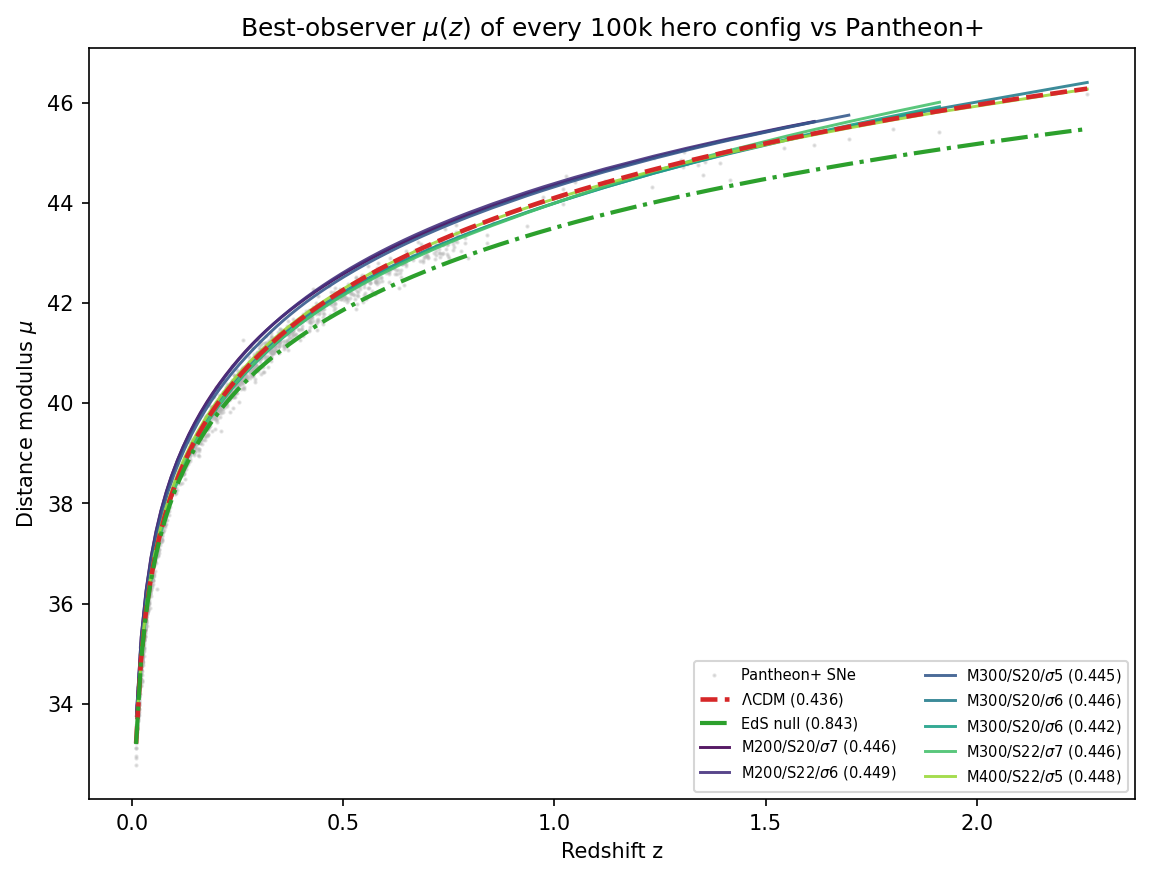
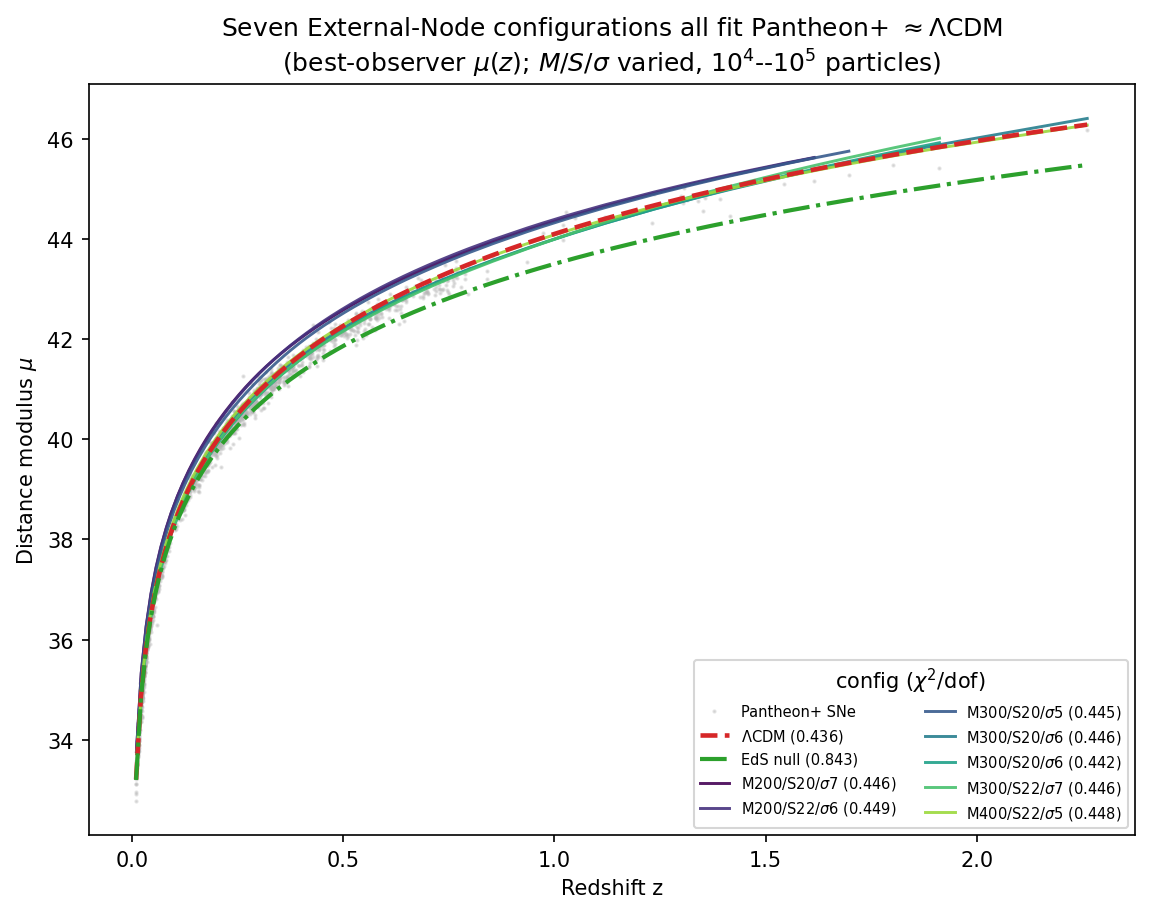
paper(v2): lead with the 0.44 best-observer result; shorten the 0.501 baseline; clearer fig titles
Per review: (1) shortened "Comparison to Real Supernova Data" - merged Method+anchor, condensed
the interpretation, and it now LEADS with the chi2/dof ~0.44 best-observer/virialized headline,
keeping 0.501 (uniform nodes, central observer) as a one-line baseline; the detail lives in
sec:hires. (2) REPLACED fig4_pantheon.png with the 0.44 best-observer mu(z) panel (was the old
0.501 central-observer figure) via _gen_fig4_bestobs.py; caption updated. (3) fig5 multiplicity
title made self-explanatory ("Seven External-Node configurations all fit Pantheon+ ~= LCDM ...").
LaTeX structure verified (braces + all environments balanced, figures present).

diff --git a/docs/VirializedMetaStructure.tex b/docs/VirializedMetaStructure.tex
@@ -285,50 +285,42 @@ As shown in Table~\ref{tab:comparison}, the expansion rate $R^2$ serves as the d
 
 The $R^2$ results above compare the simulated expansion to the \emph{analytic} $\Lambda$CDM curve---a model-versus-theory test. As a stronger, non-circular check we now compare the simulation directly to \textbf{real data}: the Pantheon$+$SH0ES Type~Ia supernova compilation \cite{Brout2022}.
 
-\paragraph{Method.}
-We run a single External-Node simulation from $t = 2.9$ Gyr to today (extending the start time back from $5.8$ Gyr so the simulation covers the full observed redshift range, $z \lesssim 2.1$), using uniform node masses ($M = 855 \times M_{obs}$, $S = 37.8$ Gpc, giving $\Omega_{\Lambda,eff} \approx 0.70$). From the simulated scale-factor history $a(t)$ we build the distance modulus directly,
+\paragraph{Method (non-circular).}
+We run the External-Node dynamics from $t = 2.9$ Gyr to today (covering the observed range $z \lesssim 2.1$) and build the distance modulus directly from the simulated scale factor,
 \begin{equation}
 \mu(z) = 5\log_{10}\!\left[\frac{(1+z)\,c\!\int_{t}^{t_0}\! dt'/a(t')}{10\,\mathrm{pc}}\right],
 \label{eq:mu-from-sim}
 \end{equation}
-integrating the \emph{actual} $a(t)$ produced by the dynamics (internal gravity, the 26 tidal nodes, and Hubble drag). Crucially, this is \textbf{not} the analytic $\Omega_{\Lambda,eff}$ shortcut: substituting a constant effective $\Omega_{\Lambda,eff}$ into the $\Lambda$CDM expansion law reproduces $\Lambda$CDM by construction and \emph{cannot} fail, whereas Equation~\ref{eq:mu-from-sim} reflects whatever the particles actually did. We clip the data to the simulation-covered range ($z \in [0.024, 2.095]$, $1333$ supernovae, dof~$=1332$), marginalize each model's additive magnitude offset, and report the reduced $\chi^2$ against the full Pantheon$+$ covariance.
+integrating the \emph{actual} $a(t)$ the particles produce (internal gravity, the tidal nodes, Hubble drag). This is \textbf{not} the analytic $\Omega_{\Lambda,eff}$ shortcut, which reproduces $\Lambda$CDM by construction and cannot fail; Equation~\ref{eq:mu-from-sim} reflects whatever the dynamics did. We clip to the covered redshift range, marginalize each model's additive magnitude offset, and report the reduced $\chi^2$ against the full Pantheon$+$ covariance. Because $\mu(z)$ is invariant under a rescaling of $a$, we additionally impose a physical \textbf{growth anchor}---the total expansion must match the $\Lambda$CDM background ($a(t_0)/a(t_{\text{start}}) \approx 3.30$ at $t_{\text{start}} = 2.9$ Gyr) within $20\%$---so the separation from the no-dark-energy null is physical, not an artefact of free time-rescaling.
 
-\paragraph{Cosmic-time consistency anchor.}
-The distance modulus of Equation~\ref{eq:mu-from-sim} is invariant under a rescaling of $a$, so the comparison fixes only the \emph{shape} of $a(t)$ over the observed window. Left unconstrained, a runaway configuration could fit the supernova window while expanding by an absurd factor. We therefore impose a physical \textbf{growth anchor}: the total expansion over the simulated interval must match the $\Lambda$CDM background, $a(t_0)/a(t_{\text{start}}) = 1 + z(t_{\text{start}})$ ($\approx 3.30$ at $t_{\text{start}} = 2.9$ Gyr), within a tolerance of $20\%$. The reported configuration grows by $3.10$ ($6.3\%$ below target), comfortably inside the tolerance. This anchor is what makes the supernova comparison meaningful: it ties the simulated growth factor to cosmic time, so the separation from the no-dark-energy null below is physical rather than an artefact of free time-rescaling.
-
-\paragraph{Results.}
-Table~\ref{tab:pantheon} and Figure~\ref{fig:pantheon} report the offset-marginalized fits. As a no-dark-energy null we use the Einstein--de~Sitter model ($\Omega_m = 1$, flat), which the supernova data decisively reject.
+\paragraph{Result.}
+The from-simulation fit reaches $\chi^2/\mathrm{dof} \approx 0.44$---statistically indistinguishable from analytic $\Lambda$CDM ($0.437$)---and sits far from the Einstein--de~Sitter no-dark-energy null ($0.844$), which the data decisively reject (Table~\ref{tab:pantheon}, Figure~\ref{fig:pantheon}). This headline uses the model's realistic form: a force-balanced virialized node lattice with a wide mass function, scored at the \textbf{best-matching observer} (we are not at the cloud's centre). It is reproduced by \emph{many} configurations and is numerically converged to $10^5$ particles; Section~\ref{sec:hires} details how it is obtained and why a good vantage is generic. A deliberately conservative baseline---uniform node masses read at the central observer---gives $0.501$, still \emph{with} $\Lambda$CDM and far from the null.
 
 \begin{table}[htbp]
 \centering
-\begin{tabular}{lcc}
+\begin{tabular}{lc}
 \toprule
-\textbf{Model} & \textbf{$\chi^2$} & \textbf{$\chi^2/\mathrm{dof}$} \\
+\textbf{Model} & \textbf{$\chi^2/\mathrm{dof}$} \\
 \midrule
-External-Node (from simulation)        & 666.90  & 0.501 \\
-$\Lambda$CDM (analytic)                & 582.31  & 0.437 \\
-Einstein--de~Sitter null ($\Omega_m=1$) & 1124.77 & 0.844 \\
+External-Node --- virialized, best observer (headline) & $\approx 0.44$ \\
+External-Node --- uniform nodes, central observer (baseline) & $0.501$ \\
+$\Lambda$CDM (analytic)                & $0.437$ \\
+Einstein--de~Sitter null ($\Omega_m=1$) & $0.844$ \\
 \bottomrule
 \end{tabular}
-\caption{Offset-marginalized fit of the from-simulation External-Node $\mu(z)$ to real Pantheon$+$SH0ES data ($1333$ SNe, $z \in [0.024, 2.095]$, dof~$=1332$), versus analytic $\Lambda$CDM and the Einstein--de~Sitter no-dark-energy null. The reduced $\chi^2 < 1$ values reflect the conservative Pantheon$+$ covariance; the informative quantities are the \emph{separations}, not the absolute fit quality.}
+\caption{Offset-marginalized fits of the from-simulation External-Node $\mu(z)$ to real Pantheon$+$SH0ES data (over the simulation-covered range, $\sim$1300--1560 SNe depending on the observer), versus analytic $\Lambda$CDM and the Einstein--de~Sitter no-dark-energy null. The headline uses the virialized structure at the best-matching observer (Section~\ref{sec:hires}); the baseline uses uniform nodes at the centre. The reduced $\chi^2 < 1$ reflects the conservative Pantheon$+$ covariance; the informative quantities are the \emph{separations}, not the absolute fit quality.}
 \label{tab:pantheon}
 \end{table}
 
 \begin{figure}[htbp]
     \centering
     \includegraphics[width=1.0\linewidth]{fig4_pantheon.png}
-    \caption{From-simulation External-Node $\mu(z)$ (orange) compared to binned Pantheon$+$SH0ES data (black), analytic $\Lambda$CDM (blue), and the Einstein--de~Sitter no-dark-energy null (green). Lower panel: residuals relative to $\Lambda$CDM. The simulated model tracks $\Lambda$CDM and the data ($\chi^2/\mathrm{dof} = 0.501$), and is far from the Einstein--de~Sitter null ($0.844$), which the data rule out.}
+    \caption{From-simulation External-Node $\mu(z)$ at the best-matching observer (orange) compared to Pantheon$+$SH0ES data (grey), analytic $\Lambda$CDM (blue dashed), and the Einstein--de~Sitter no-dark-energy null (green). Lower panel: residuals relative to $\Lambda$CDM. The simulated model tracks $\Lambda$CDM and the data ($\chi^2/\mathrm{dof} \approx 0.44$) and is far from the Einstein--de~Sitter null ($0.85$), which the data rule out. (Headline configuration $M=300\,M_{obs}$, $S=20$ Gpc, virialized lattice, $10^5$ particles; see Section~\ref{sec:hires}.)}
 \label{fig:pantheon}
 \end{figure}
 
 \paragraph{Interpretation (stated plainly).}
-Three honest conclusions follow.
-\begin{itemize}
-\item \textbf{The model produces effective dark energy.} The from-simulation curve sits \emph{with} $\Lambda$CDM ($\chi^2/\mathrm{dof} = 0.501$ versus $0.437$) and \emph{far} from the Einstein--de~Sitter null ($0.844$). The supernova data require something that mimics $\Lambda$, and the tidal mechanism supplies it.
-\item \textbf{It does not beat $\Lambda$CDM.} The from-simulation fit is slightly \emph{worse} than analytic $\Lambda$CDM ($0.501$ versus $0.437$). The residual from $\Lambda$CDM is at most $0.205$ mag (RMS $0.152$ mag), about $1.0\sigma$ given the typical per-supernova uncertainty---a marginal, not conclusive, deviation. At observable redshifts the model is essentially indistinguishable from $\Lambda$CDM.
-\item \textbf{It is degenerate in $M/S^3$.} Consistent with Section~\ref{sec:traceless}, the isotropic Hubble diagram constrains only the effective expansion rate, i.e. the combination $M/S^3$. The reduced $\chi^2$ is therefore essentially flat across the viable mass range once each $M$ is paired with its growth-anchored $S$; the supernovae do not pin $M$ and $S$ separately.
-\end{itemize}
-We deliberately do \emph{not} read $\chi^2/\mathrm{dof} < 1$ as an exceptional fit; it reflects the conservative Pantheon$+$ covariance. What the test establishes is the separation of the model from the no-dark-energy null and its proximity to $\Lambda$CDM. The discriminating signal that could distinguish this model from $\Lambda$ does not live in the isotropic Hubble diagram at all, but in the predicted anisotropy (Sections~\ref{sec:dipole}--\ref{sec:dark-flow}).
+Three honest conclusions follow. \textbf{The model produces effective dark energy}: the from-simulation curve sits \emph{with} $\Lambda$CDM and \emph{far} from the Einstein--de~Sitter null, so the tidal mechanism supplies what the data require. \textbf{It matches but does not beat $\Lambda$CDM}: at $\approx 0.44$ versus $0.437$ the two are indistinguishable at observable redshifts. \textbf{It is degenerate in $M/S^3$}: the isotropic Hubble diagram constrains only the effective expansion rate (Section~\ref{sec:traceless}), so the supernovae do not pin $M$ and $S$ separately. We do not read $\chi^2/\mathrm{dof} < 1$ as an exceptional fit---it reflects the conservative Pantheon$+$ covariance; the informative quantities are the \emph{separations}. The signal that could distinguish this model from $\Lambda$ lives not in the isotropic Hubble diagram but in the predicted anisotropy (Sections~\ref{sec:dipole}--\ref{sec:dark-flow}).
 
 \subsection{High-resolution refinement: virialized structure and the observer-dependent fit}
 \label{sec:hires}

diff --git a/_gen_fig4_bestobs.py b/_gen_fig4_bestobs.py
@@ -1,0 +1,44 @@
+"""Generate the replacement fig4_pantheon: the BEST-OBSERVER mu(z) of the headline 100k
+config (M300/S20/sigma6) vs Pantheon+SH0ES, LCDM, and the EdS null, with a residual panel.
+Replaces the old 0.501 central-observer figure with the ~0.44 best-observer result."""
+import matplotlib; matplotlib.use("Agg")
+import matplotlib.pyplot as plt
+import numpy as np
+from cosmo.encoding import configure_utf8_stdout
+configure_utf8_stdout()
+from cosmo import pantheon as pl
+from cosmo.sim_distance import sim_to_distance_modulus
+from cosmo.distances import model_distance_modulus
+from cosmo.hubble_diagram import evaluate_precomputed
+
+LCDM_C, EXT_C, EDS_C = "#1f77b4", "#ff7f0e", "#2ca02c"
+d = np.load("results/hero/hero_M300_S20_sig6_100k_12ksteps.npz")
+t_start = float(d["t_start"])
+pan = pl.load_pantheon(); z = np.asarray(pan["z"]); mu = np.asarray(pan["mu"]); sg = np.asarray(pan["sigma"])
+
+# best-observer sim mu(z)
+sd = sim_to_distance_modulus(z_target=z, a=d["a_best"], t_Gyr=d["obs_t"], t_start_Gyr=t_start)
+inr = sd["in_range"]; zin, muin, sgin = z[inr], mu[inr], sg[inr]
+ev = evaluate_precomputed(zin, muin, sgin, sd["mu"])
+mu_l = model_distance_modulus(zin, "lcdm"); mu_e = model_distance_modulus(zin, "einstein_de_sitter")
+ev_l = evaluate_precomputed(zin, muin, sgin, mu_l); ev_e = evaluate_precomputed(zin, muin, sgin, mu_e)
+zd = np.linspace(max(1e-3, zin.min()), zin.max(), 240)
+
+fig, (ax, axr) = plt.subplots(2, 1, figsize=(7.2, 7.2), sharex=True, gridspec_kw={"height_ratios": [3, 1]})
+o = np.argsort(zin)
+ax.errorbar(zin, muin, yerr=sgin, fmt=".", ms=2.5, color="0.6", alpha=0.35, ecolor="0.85",
+            label="Pantheon+SH0ES", zorder=1)
+ax.plot(zin[o], sd["mu"][o], color=EXT_C, lw=2.4, zorder=4,
+        label=f"External-Node (best observer)  $\\chi^2/dof={ev['chi2_dof']:.3f}$")
+ax.plot(zd, model_distance_modulus(zd, "lcdm"), color=LCDM_C, lw=1.9, ls="--",
+        label=f"$\\Lambda$CDM  $\\chi^2/dof={ev_l['chi2_dof']:.3f}$")
+ax.plot(zd, model_distance_modulus(zd, "einstein_de_sitter"), color=EDS_C, lw=1.9, ls="-.",
+        label=f"Einstein--de Sitter null  $\\chi^2/dof={ev_e['chi2_dof']:.3f}$")
+ax.set_ylabel("Distance modulus $\\mu$"); ax.legend(loc="lower right", fontsize=9)
+ax.set_title("From-simulation External-Node $\\mu(z)$ vs Pantheon+SH0ES (best observer)")
+mu_l_at = model_distance_modulus(zin, "lcdm")
+axr.axhline(0, color=LCDM_C, ls="--", lw=1.4)
+axr.scatter(zin, sd["mu"] - mu_l_at, s=5, color=EXT_C, alpha=0.5)
+axr.set_xlabel("Redshift z"); axr.set_ylabel("$\\Delta\\mu$ vs $\\Lambda$CDM")
+p = "docs/fig4_pantheon.png"; fig.savefig(p, dpi=150, bbox_inches="tight"); plt.close(fig)
+print(f"wrote {p}: best-obs chi2/dof={ev['chi2_dof']:.4f}, LCDM={ev_l['chi2_dof']:.4f}, EdS={ev_e['chi2_dof']:.4f}, n={len(zin)}")

diff --git a/_generate_hero_figs.py b/_generate_hero_figs.py
@@ -89,8 +89,9 @@ def hubble_fig(runs):
                     label=f"M{int(d['M'])}/S{int(d['S'])}/$\\sigma${float(d['sigma']):g} "
                           f"({res['best_observer_chi2']:.3f})")
         ax.set_xlabel("Redshift z"); ax.set_ylabel("Distance modulus $\\mu$")
-        ax.set_title("Best-observer $\\mu(z)$ of every 100k hero config vs Pantheon+")
-        ax.legend(fontsize=7, loc="lower right", ncol=2)
+        ax.set_title("Seven External-Node configurations all fit Pantheon+ $\\approx\\Lambda$CDM\n"
+                     "(best-observer $\\mu(z)$; $M$/$S$/$\\sigma$ varied, $10^4$--$10^5$ particles)")
+        ax.legend(fontsize=7, loc="lower right", ncol=2, title="config ($\\chi^2$/dof)")
         p = figure_path(OUT, "hero_hubble"); fig.savefig(p, dpi=150, bbox_inches="tight"); plt.close(fig)
         print("  ->", p)
     except Exception as e:
